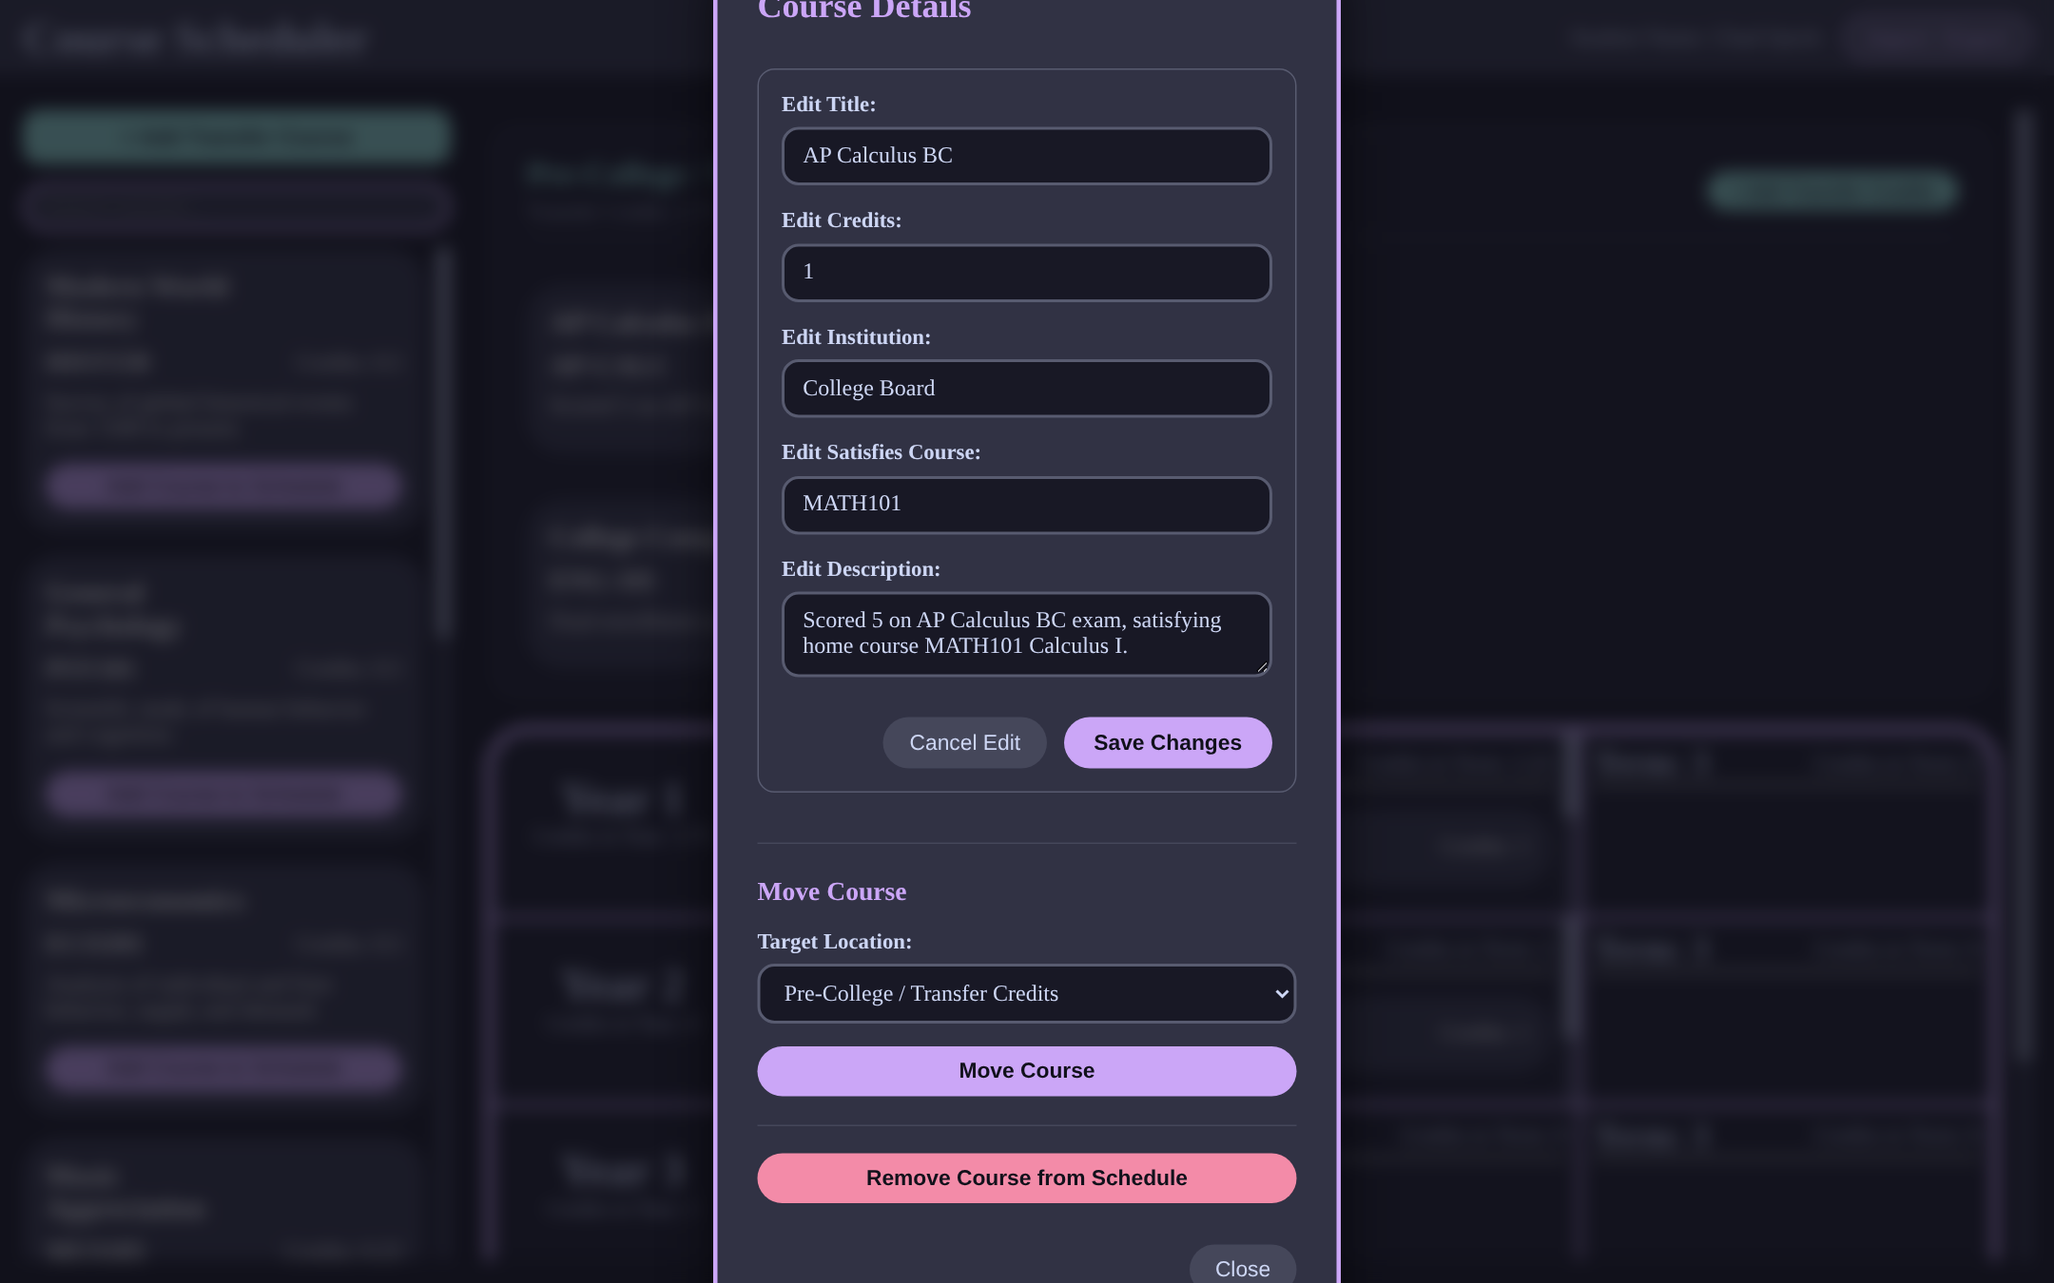
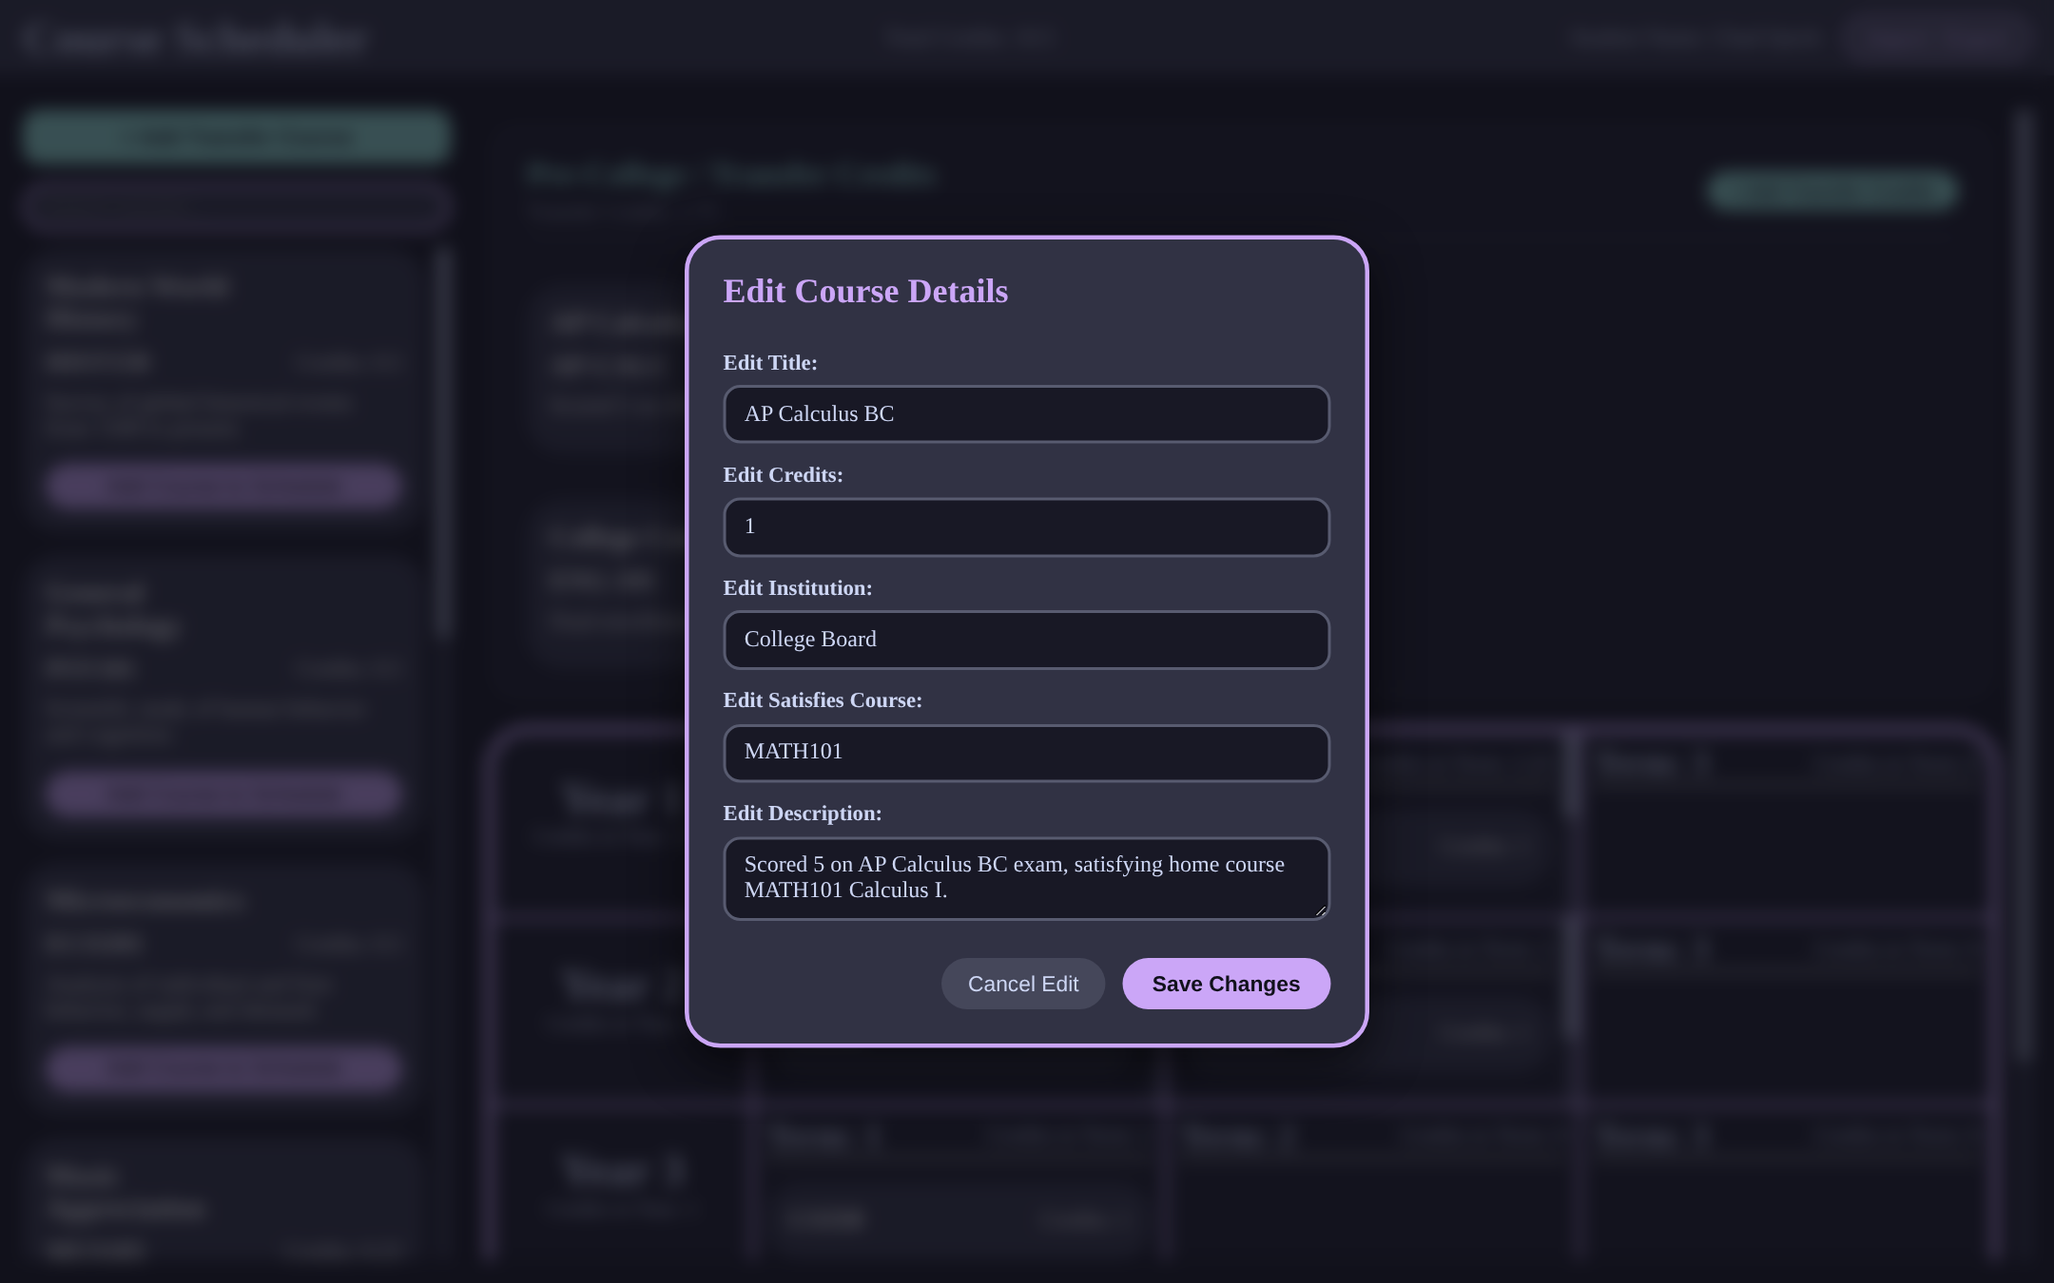
fix: resolve dialog clipping and add modal scroll constraints

Changed region(s): [[0.3102, 0.0, 0.6824, 1.0]]

diff --git a/client/src/components/ManageCourseDialog.jsx b/client/src/components/ManageCourseDialog.jsx
@@ -92,7 +92,7 @@ function ManageCourseDialog({
         <div className="dialogOverlay" onClick={onClose}>
             <div className="dialogWrapper" onClick={(e) => e.stopPropagation()}>
                 <div className="dialogHeaderRow">
-                    <h2>Course Details</h2>
+                    <h2>{isEditing ? "Edit Course Details" : "Course Details"}</h2>
                     {isTransfer && !isEditing && (
                         <button
                             type="button"
@@ -105,33 +105,142 @@ function ManageCourseDialog({
                 </div>
 
                 {!isEditing ? (
-                    <div className="dialogCourseInfo">
-                        <div className="dialogCourseTitleRow">
-                            <p className="dialogCourseName">
-                                <strong>{course.code}:</strong> {course.name}
+                    <>
+                        <div className="dialogCourseInfo">
+                            <div className="dialogCourseTitleRow">
+                                <p className="dialogCourseName">
+                                    <strong>{course.code}:</strong> {course.name}
+                                </p>
+                                {isTransfer && <span className="transferBadge">Transfer</span>}
+                            </div>
+                            <p className="dialogCourseCredits">
+                                <strong>Credits:</strong> {course.credits}
                             </p>
-                            {isTransfer && <span className="transferBadge">Transfer</span>}
+                            <p className="dialogCourseCurrentTerm">
+                                <strong>Current Location:</strong> {formatCurrentLocation()}
+                            </p>
+                            {isTransfer && (
+                                <>
+                                    <p className="dialogCourseInstitution">
+                                        <strong>Institution:</strong> {course.institution || "None"}
+                                    </p>
+                                    <p className="dialogCourseSatisfies">
+                                        <strong>Satisfies:</strong> {course.satisfiesCourse || "None / General Elective"}
+                                    </p>
+                                </>
+                            )}
+                            <p className="dialogCourseDescription">
+                                <strong>Description:</strong> {course.description || "None"}
+                            </p>
                         </div>
-                        <p className="dialogCourseCredits">
-                            <strong>Credits:</strong> {course.credits}
-                        </p>
-                        <p className="dialogCourseCurrentTerm">
-                            <strong>Current Location:</strong> {formatCurrentLocation()}
-                        </p>
-                        {isTransfer && (
-                            <>
-                                <p className="dialogCourseInstitution">
-                                    <strong>Institution:</strong> {course.institution || "None"}
-                                </p>
-                                <p className="dialogCourseSatisfies">
-                                    <strong>Satisfies:</strong> {course.satisfiesCourse || "None / General Elective"}
-                                </p>
-                            </>
-                        )}
-                        <p className="dialogCourseDescription">
-                            <strong>Description:</strong> {course.description || "None"}
-                        </p>
-                    </div>
+
+                        <hr className="dialogDivider" />
+
+                        <form onSubmit={handleMove}>
+                            <h3 className="dialogSubheading">Move Course</h3>
+                            {isTransfer ? (
+                                <div className="formGroup">
+                                    <label htmlFor="move-location-select">Target Location:</label>
+                                    <select
+                                        id="move-location-select"
+                                        aria-label="Target Location:"
+                                        value={targetLocation}
+                                        onChange={(e) => setTargetLocation(e.target.value)}
+                                    >
+                                        <option value="transfer">Pre-College / Transfer Credits</option>
+                                        <optgroup label="Academic Years">
+                                            <option value="0,0">Year 1 Term 1</option>
+                                            <option value="0,1">Year 1 Term 2</option>
+                                            <option value="0,2">Year 1 Term 3</option>
+                                            <option value="1,0">Year 2 Term 1</option>
+                                            <option value="1,1">Year 2 Term 2</option>
+                                            <option value="1,2">Year 2 Term 3</option>
+                                            <option value="2,0">Year 3 Term 1</option>
+                                            <option value="2,1">Year 3 Term 2</option>
+                                            <option value="2,2">Year 3 Term 3</option>
+                                            <option value="3,0">Year 4 Term 1</option>
+                                            <option value="3,1">Year 4 Term 2</option>
+                                            <option value="3,2">Year 4 Term 3</option>
+                                        </optgroup>
+                                    </select>
+                                </div>
+                            ) : (
+                                <>
+                                    <div className="formGroup" id="yearWrapper">
+                                        <label htmlFor="move-year-select">Target Year:</label>
+                                        <select 
+                                            name="move-year-select" 
+                                            id="move-year-select" 
+                                            value={selectedYear} 
+                                            onChange={(e) => setSelectedYear(Number(e.target.value))}
+                                        >
+                                            <option value={0}>Year 1</option>
+                                            <option value={1}>Year 2</option>
+                                            <option value={2}>Year 3</option>
+                                            <option value={3}>Year 4</option>
+                                        </select>
+                                    </div>
+                                    <div className="formGroup" id="termWrapper">
+                                        <label htmlFor="move-term-select">Target Term:</label>
+                                        <select 
+                                            name="move-term-select" 
+                                            id="move-term-select" 
+                                            value={selectedTerm} 
+                                            onChange={(e) => setSelectedTerm(Number(e.target.value))}
+                                        >
+                                            <option value={0}>Term 1</option>
+                                            <option value={1}>Term 2</option>
+                                            <option value={2}>Term 3</option>
+                                        </select>
+                                    </div>
+                                </>
+                            )}
+
+                            <div className="formGroup">
+                                <button type="submit" className="btn-submit">Move Course</button>
+                            </div>
+                        </form>
+
+                        <hr className="dialogDivider" />
+
+                        <div className="dialogDangerZone">
+                            {!isConfirmingDelete ? (
+                                <button 
+                                    type="button" 
+                                    className="btn-danger" 
+                                    onClick={() => setIsConfirmingDelete(true)}
+                                >
+                                    Remove Course from Schedule
+                                </button>
+                            ) : (
+                                <div className="deleteConfirmBox">
+                                    <p className="deleteConfirmWarning">
+                                        Are you sure you want to remove <strong>{course.code}</strong> from your schedule?
+                                    </p>
+                                    <div className="deleteConfirmButtons">
+                                        <button 
+                                            type="button" 
+                                            className="btn-confirm-delete" 
+                                            onClick={handleConfirmRemove}
+                                        >
+                                            Yes, Remove Course
+                                        </button>
+                                        <button 
+                                            type="button" 
+                                            className="btn-cancel-delete" 
+                                            onClick={() => setIsConfirmingDelete(false)}
+                                        >
+                                            Cancel
+                                        </button>
+                                    </div>
+                                </div>
+                            )}
+                        </div>
+
+                        <div className="formGroup buttons">
+                            <button type="button" className="btn-close" onClick={onClose}>Close</button>
+                        </div>
+                    </>
                 ) : (
                     <form className="inlineEditForm" onSubmit={handleSaveEdit}>
                         {editError && (
@@ -216,113 +325,6 @@ function ManageCourseDialog({
                         </div>
                     </form>
                 )}
-
-                <hr className="dialogDivider" />
-
-                <form onSubmit={handleMove}>
-                    <h3 className="dialogSubheading">Move Course</h3>
-                    {isTransfer ? (
-                        <div className="formGroup">
-                            <label htmlFor="move-location-select">Target Location:</label>
-                            <select
-                                id="move-location-select"
-                                aria-label="Target Location:"
-                                value={targetLocation}
-                                onChange={(e) => setTargetLocation(e.target.value)}
-                            >
-                                <option value="transfer">Pre-College / Transfer Credits</option>
-                                <optgroup label="Academic Years">
-                                    <option value="0,0">Year 1 Term 1</option>
-                                    <option value="0,1">Year 1 Term 2</option>
-                                    <option value="0,2">Year 1 Term 3</option>
-                                    <option value="1,0">Year 2 Term 1</option>
-                                    <option value="1,1">Year 2 Term 2</option>
-                                    <option value="1,2">Year 2 Term 3</option>
-                                    <option value="2,0">Year 3 Term 1</option>
-                                    <option value="2,1">Year 3 Term 2</option>
-                                    <option value="2,2">Year 3 Term 3</option>
-                                    <option value="3,0">Year 4 Term 1</option>
-                                    <option value="3,1">Year 4 Term 2</option>
-                                    <option value="3,2">Year 4 Term 3</option>
-                                </optgroup>
-                            </select>
-                        </div>
-                    ) : (
-                        <>
-                            <div className="formGroup" id="yearWrapper">
-                                <label htmlFor="move-year-select">Target Year:</label>
-                                <select 
-                                    name="move-year-select" 
-                                    id="move-year-select" 
-                                    value={selectedYear} 
-                                    onChange={(e) => setSelectedYear(Number(e.target.value))}
-                                >
-                                    <option value={0}>Year 1</option>
-                                    <option value={1}>Year 2</option>
-                                    <option value={2}>Year 3</option>
-                                    <option value={3}>Year 4</option>
-                                </select>
-                            </div>
-                            <div className="formGroup" id="termWrapper">
-                                <label htmlFor="move-term-select">Target Term:</label>
-                                <select 
-                                    name="move-term-select" 
-                                    id="move-term-select" 
-                                    value={selectedTerm} 
-                                    onChange={(e) => setSelectedTerm(Number(e.target.value))}
-                                >
-                                    <option value={0}>Term 1</option>
-                                    <option value={1}>Term 2</option>
-                                    <option value={2}>Term 3</option>
-                                </select>
-                            </div>
-                        </>
-                    )}
-
-                    <div className="formGroup">
-                        <button type="submit" className="btn-submit">Move Course</button>
-                    </div>
-                </form>
-
-                <hr className="dialogDivider" />
-
-                <div className="dialogDangerZone">
-                    {!isConfirmingDelete ? (
-                        <button 
-                            type="button" 
-                            className="btn-danger" 
-                            onClick={() => setIsConfirmingDelete(true)}
-                        >
-                            Remove Course from Schedule
-                        </button>
-                    ) : (
-                        <div className="deleteConfirmBox">
-                            <p className="deleteConfirmWarning">
-                                Are you sure you want to remove <strong>{course.code}</strong> from your schedule?
-                            </p>
-                            <div className="deleteConfirmButtons">
-                                <button 
-                                    type="button" 
-                                    className="btn-confirm-delete" 
-                                    onClick={handleConfirmRemove}
-                                >
-                                    Yes, Remove Course
-                                </button>
-                                <button 
-                                    type="button" 
-                                    className="btn-cancel-delete" 
-                                    onClick={() => setIsConfirmingDelete(false)}
-                                >
-                                    Cancel
-                                </button>
-                            </div>
-                        </div>
-                    )}
-                </div>
-
-                <div className="formGroup buttons">
-                    <button type="button" className="btn-close" onClick={onClose}>Close</button>
-                </div>
             </div>
         </div>
     );

diff --git a/client/src/index.css b/client/src/index.css
@@ -328,20 +328,42 @@ main,
   justify-content: center;
   align-items: center;
   z-index: 1000;
-  padding: 1em;
+  padding: 1.5em;
+  overflow-y: auto;
 }
 
 .dialogWrapper {
   background-color: var(--surface0);
   border: 3px solid var(--mauve);
   border-radius: 25px;
-  padding: 1.75em;
+  padding: 1.5em;
   width: 100%;
-  max-width: 440px;
+  max-width: 480px;
+  max-height: min(92vh, 820px);
+  overflow-y: auto;
+  margin: auto;
   box-shadow: 0 12px 35px rgba(0, 0, 0, 0.6);
   display: flex;
   flex-direction: column;
-  gap: 1em;
+  gap: 0.85em;
+}
+
+.dialogWrapper::-webkit-scrollbar {
+  width: 8px;
+}
+
+.dialogWrapper::-webkit-scrollbar-track {
+  background: var(--mantle);
+  border-radius: 4px;
+}
+
+.dialogWrapper::-webkit-scrollbar-thumb {
+  background: var(--surface2);
+  border-radius: 4px;
+}
+
+.dialogWrapper::-webkit-scrollbar-thumb:hover {
+  background: var(--mauve);
 }
 
 .dialogWrapper h2 {
@@ -365,7 +387,7 @@ main,
 .dialogWrapper form {
   display: flex;
   flex-direction: column;
-  gap: 1em;
+  gap: 0.85em;
 }
 
 .formGroup {
@@ -929,12 +951,7 @@ main,
 .inlineEditForm {
   display: flex;
   flex-direction: column;
-  gap: 0.8em;
-  background-color: var(--surface0);
-  padding: 1em;
-  border-radius: 12px;
-  border: 1px solid var(--surface2);
-  margin-bottom: 1em;
+  gap: 1em;
 }
 
 /* Searchable / Filterable Course Dropdown Styles */

diff --git a/client/src/components/AddTransferCourseDialog.jsx b/client/src/components/AddTransferCourseDialog.jsx
@@ -177,7 +177,7 @@ function AddTransferCourseDialog({ onClose, onConfirm, catalogCourses = [] }) {
                         <label htmlFor="transfer-description">Description:</label>
                         <textarea
                             id="transfer-description"
-                            rows={3}
+                            rows={2}
                             placeholder="Optional notes or course description"
                             value={description}
                             onChange={(e) => setDescription(e.target.value)}
